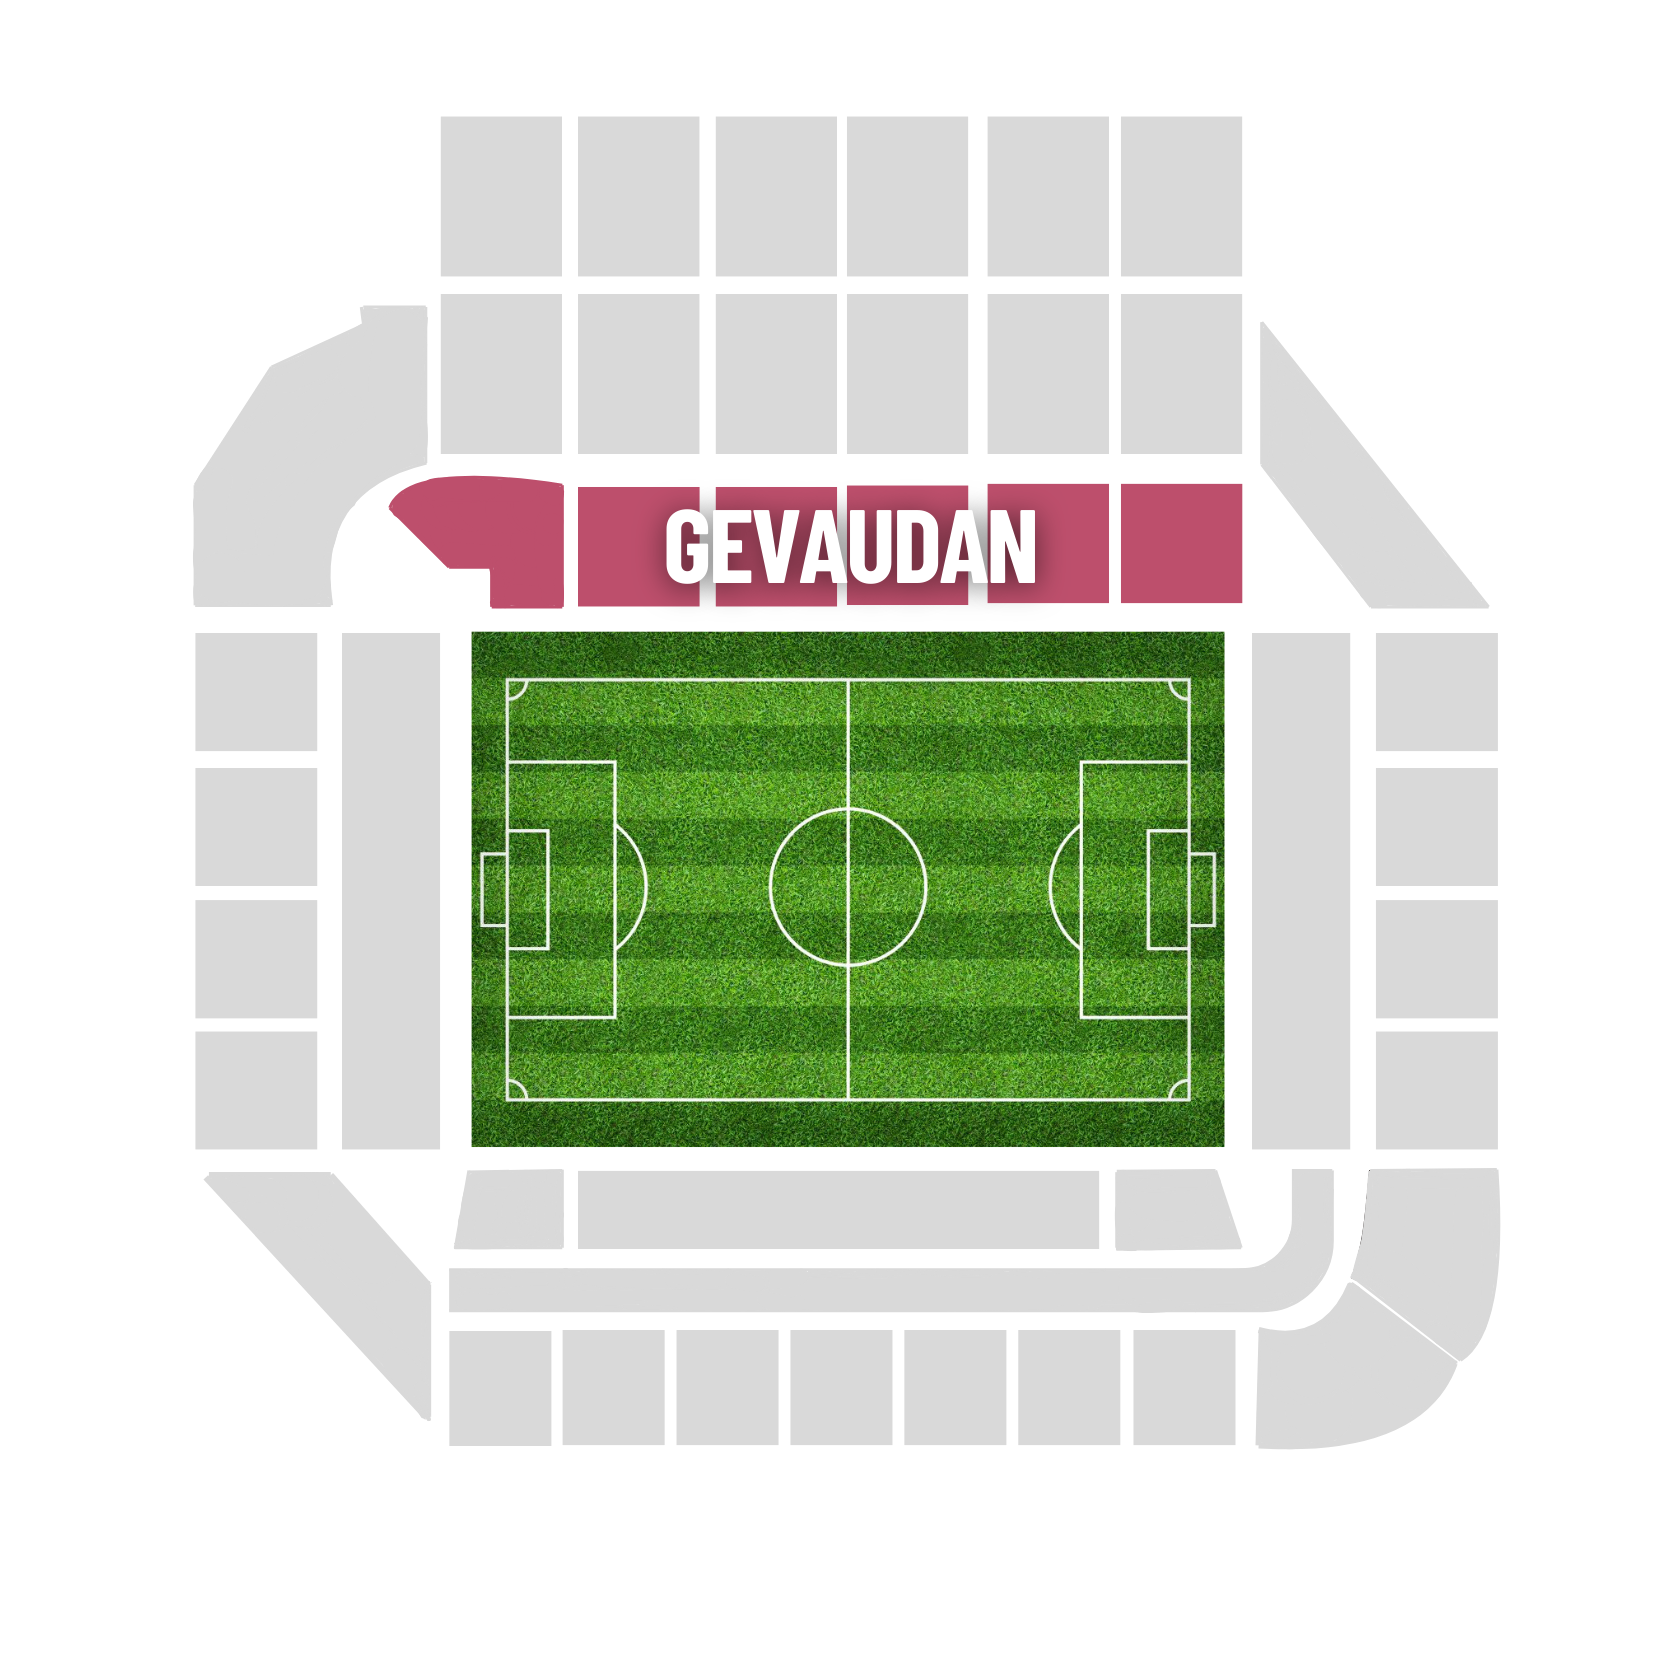
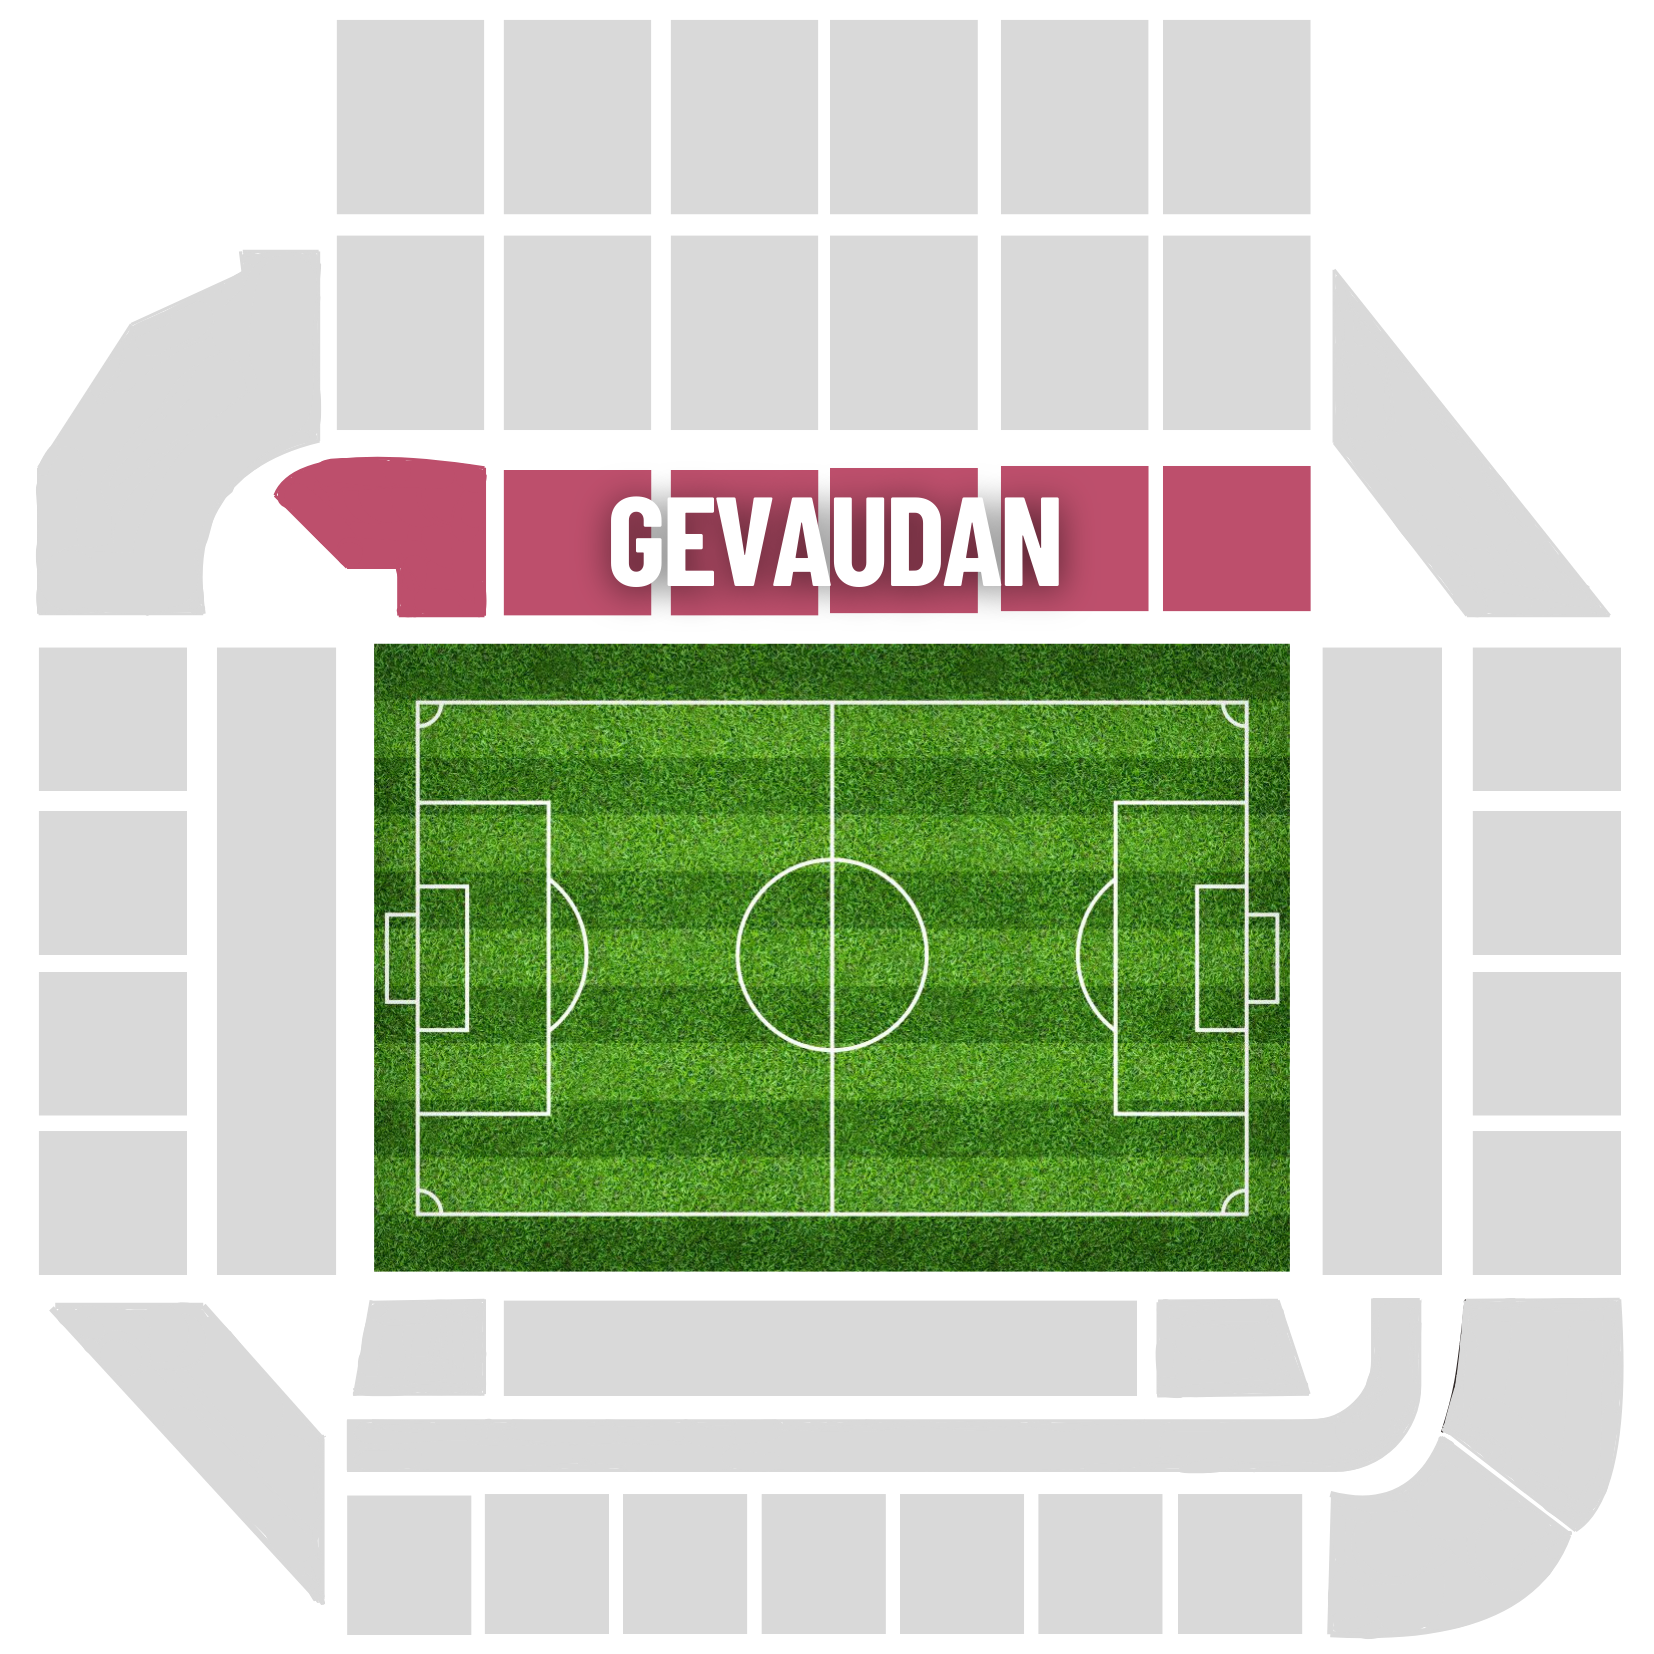
recadrage du stade

diff --git a/screens/Billeterie/TribunePage.js b/screens/Billeterie/TribunePage.js
@@ -10,10 +10,6 @@ export default function Tribune({ route, navigation }) {
   const [tribunes, setTribunes] = useState([]);
   const [selectedTribune, setSelectedTribune] = useState(null);
 
-  
-
-  
-
   useEffect(() => {
     const fetchData = async () => {
       try {
@@ -49,7 +45,7 @@ export default function Tribune({ route, navigation }) {
         <View style={styles.container}>
           {stade && (
             <View style ={styles.containerStade}>
-              <Text>{stade.nom}</Text>
+              <Image source={require('../../assets/stade/stade_globale.png')}  style={styles.stadeImage} />
             </View>
           )}
           {tribunes.length > 0 && (
@@ -93,8 +89,16 @@ const styles = StyleSheet.create({
     flex: 1,
     marginBottom: 55,
   },
-  containerStade:{
+  containerStade: {
     justifyContent: 'center',
+    alignItems: 'center',
+    marginVertical: 10,
+    marginHorizontal: 10,
+  },
+  stadeImage: {
+    width: 400,
+    height: 400,
+    borderRadius: 30,
   },
   containerTribunes:{
     justifyContent: 'start',
